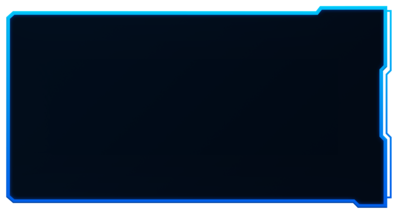
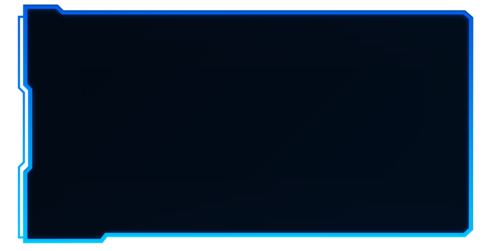
Updated UI / Controls in Main Menu.

Changed region(s): [[0.0, 0.0, 0.99, 0.9813]]

diff --git a/src/utils/game_utils.py b/src/utils/game_utils.py
@@ -308,7 +308,7 @@ def render_text(text, font, color, start_pos, line_spacing, second_color=None):
     text_surfaces = []
     text_rects = []
 
-    tab_width = 10  # Number of spaces per tab
+    tab_width = 5  # Number of spaces per tab
 
     for i, line in enumerate(lines):
         # Replace tabs with spaces
@@ -332,14 +332,14 @@ def calculate_control_positions(center, x_offset):
     """Calculate the positions of player 1 and player 2 controls."""
     p1_controls_x = center[0] - x_offset
     p2_controls_x = center[0] + x_offset
-    y_pos = 260
+    y_pos = 180
     return (p1_controls_x, y_pos), (p2_controls_x, y_pos)
 
 
 def display_controls(controls_surface, surface):
     """Display controls on screen."""
     center = surface.get_rect().center
-    font = pygame.font.SysFont("verdana", 20)
+    font = pygame.font.SysFont("verdana", 16, bold=True)
     color = "white"
 
     p1_controls_img, p1_controls_img_rect = load_controls_image(
@@ -349,7 +349,7 @@ def display_controls(controls_surface, surface):
         controls_surface, {"topright": (0, 0)}
     )
 
-    p1_pos, p2_pos = calculate_control_positions(center, 600)
+    p1_pos, p2_pos = calculate_control_positions(center, 625)
     p1_controls_img_rect.topleft = p1_pos
     p2_controls_img_rect.topright = p2_pos
 
@@ -358,7 +358,7 @@ def display_controls(controls_surface, surface):
         {
             "midbottom": (
                 p1_controls_img_rect.centerx,
-                p1_controls_img_rect.bottom + 225,
+                p1_controls_img_rect.bottom + 245,
             )
         },
     )
@@ -367,24 +367,24 @@ def display_controls(controls_surface, surface):
         P1_CONTROLS,
         font,
         color,
-        (p1_controls_img_rect.left + 25, p1_controls_img_rect.top + 15),
-        22,
+        (p1_controls_img_rect.left + 45, p1_controls_img_rect.top + 25),
+        23,
     )
 
     p2_controls_text, p2_controls_text_rects = render_text(
         P2_CONTROLS,
         font,
         color,
-        (p2_controls_img_rect.left + 25, p2_controls_img_rect.top + 15),
-        22,
+        (p2_controls_img_rect.left + 45, p2_controls_img_rect.top + 25),
+        23,
     )
 
     game_controls_text, game_controls_text_rects = render_text(
         GAME_CONTROLS,
         font,
         color,
-        (game_controls_img_rect.left + 25, game_controls_img_rect.top + 15),
-        22,
+        (game_controls_img_rect.left + 45, game_controls_img_rect.top + 25),
+        23,
     )
 
     return (

diff --git a/src/utils/constants.py b/src/utils/constants.py
@@ -32,31 +32,34 @@ BUTTON_NAMES = [
 
 # Player2 controls
 P2_CONTROLS = (
-    "Phoenix Controls:\n"
-    "Move: Arrow Keys\n"
-    "Fire: Enter\n"
-    "Laser: R-Shift\n"
-    "Launch Missiles: R-Ctrl\n"
+    "\t\t\t\t\tPhoenix Controls\n"
+    "\n"
+    "Movement — Arrow Keys\n"
+    "Fire — Enter\n"
+    "Laser — R-Shift\n"
+    "Launch Missiles — R-Ctrl\n"
 )
 
 # Player1 controls
 P1_CONTROLS = (
-    "Thunderbird Controls:\n"
-    "Move: W, A, S, D\n"
-    "Fire: Space\n"
-    "Laser: C\n"
-    "Launch Missiles: X\n"
+    "\t\t\t\tThunderbird Controls\n"
+    "\n"
+    "Movement — W, A, S, D\n"
+    "Fire — Space\n"
+    "Laser — C\n"
+    "Launch Missiles — X\n"
 )
 
 GAME_CONTROLS = (
-    "Toggle Fullscreen: F\n"
-    "Pause: P\n"
-    " - While Paused:\n"
-    " Save Game: S\n"
-    " Restart: R\n"
-    " Game Menu: ESC\n"
-    " Main Menu: M\n"
-    " Quit: Q"
+    "Toggle Fullscreen — F\n"
+    "Mute Music & Mute SFX — F1 & F2\n"
+    "Pause — P\n"
+    " - While Paused: \n"
+    " Save Game — S\n"
+    " Restart — R\n"
+    " Game Menu — ESC\n"
+    " Main Menu — M\n"
+    " Quit — Q"
 )
 
 GAME_MODES_DESCRIPTIONS = (

diff --git a/README.md b/README.md
@@ -71,6 +71,7 @@
 <summary><h2>Alien-Onslaught Changelog</h2></summary>
 
 ### Version 3.3:
+* Updated & Improved UI / Controls on main menu.
 * Users are able to mute/unmute the music in the game using the F1 key.
 * Overall codebase improvements.
 * Code refactored inside the save_load_manager module.
